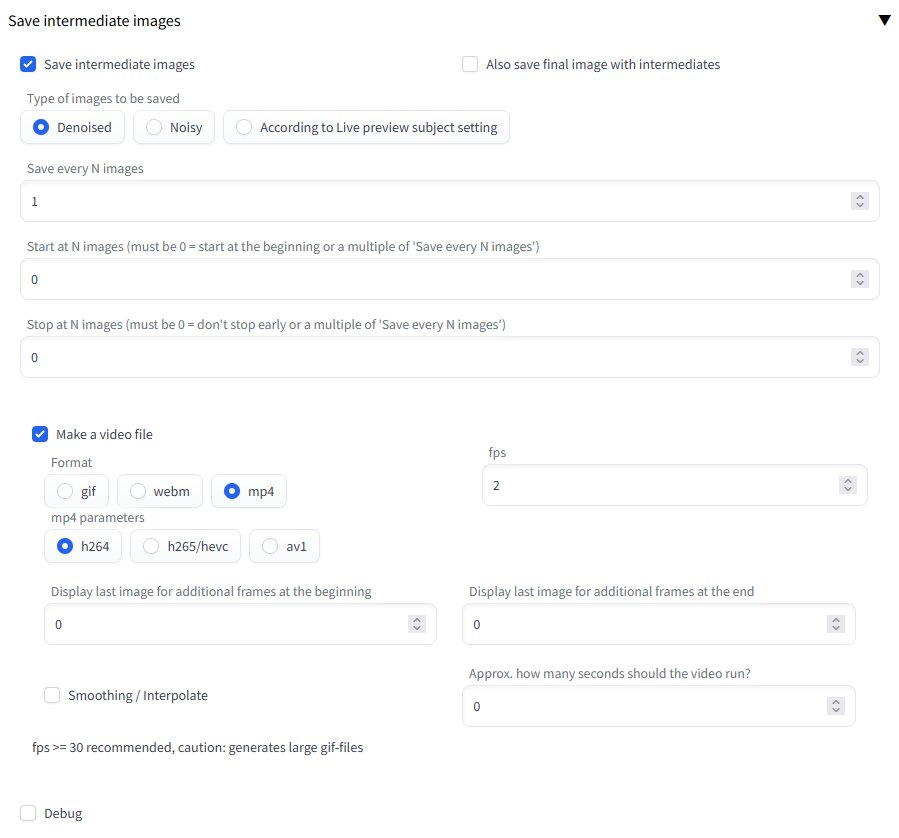
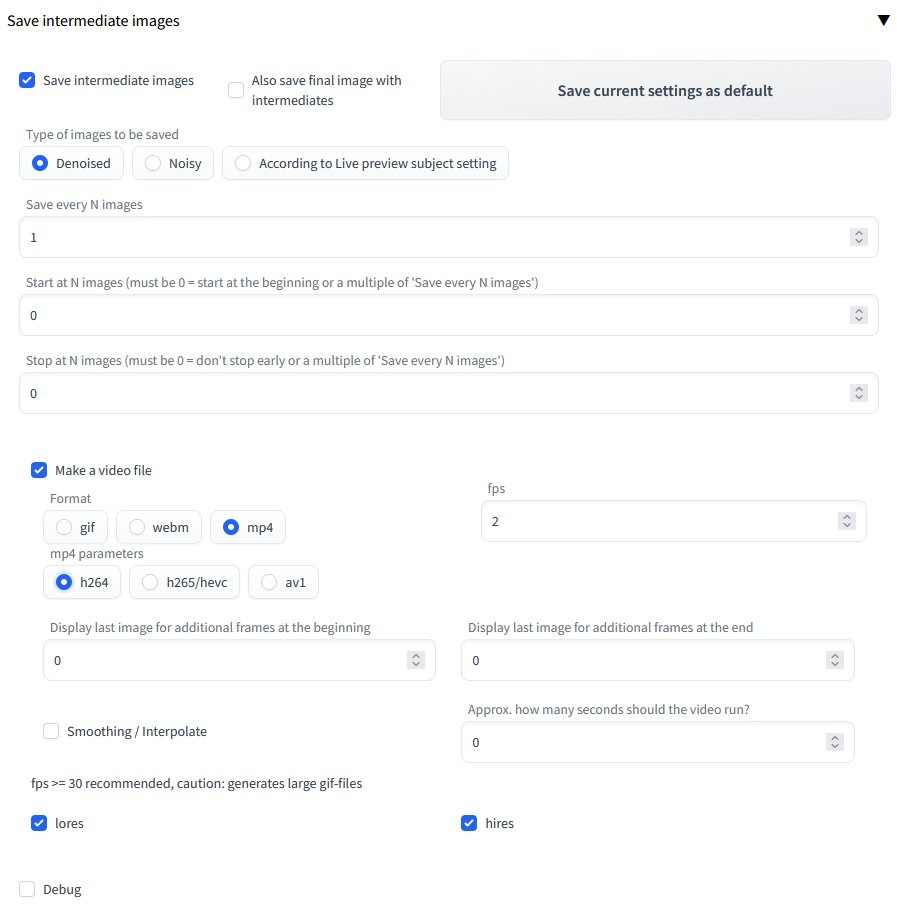
lores/hires options for make video, #18

diff --git a/scripts/sd_save_intermediate_images.py b/scripts/sd_save_intermediate_images.py
@@ -25,6 +25,7 @@ import gradio as gr; gr.__version__
 
 # New args, regex for npp, find: (ssii_video_hires)(?=,)
 # replace: \1, ssii_add_last_frames, ssii_add_first_frames
+# plus debug
 
 orig_callback_state = KDiffusionSampler.callback_state
 ui_config_backup = os.path.join(scripts.basedir(), "ui-config_backup.json")
@@ -44,6 +45,8 @@ ui_items = {
     "ssii_add_last_frames": "Display last image for additional frames at the end",
     "ssii_smooth": "Smoothing / Interpolate",
     "ssii_seconds": "Approx. how many seconds should the video run?",
+    "ssii_lores": "lores",
+    "ssii_hires": "hires",
     "ssii_debug": "Debug"
 }
 
@@ -53,7 +56,7 @@ def ui_setting_set(ui_settings, key, value):
     ui_settings[f"customscript/{this_module}/img2img/{key}/value"] = value
     return ui_settings
 
-def ssii_save_settings_do(ssii_is_active, ssii_final_save, ssii_intermediate_type, ssii_every_n, ssii_start_at_n, ssii_stop_at_n, ssii_video, ssii_video_format, ssii_mp4_parms, ssii_video_fps, ssii_add_first_frames, ssii_add_last_frames, ssii_smooth, ssii_seconds, ssii_debug):
+def ssii_save_settings_do(ssii_is_active, ssii_final_save, ssii_intermediate_type, ssii_every_n, ssii_start_at_n, ssii_stop_at_n, ssii_video, ssii_video_format, ssii_mp4_parms, ssii_video_fps, ssii_add_first_frames, ssii_add_last_frames, ssii_smooth, ssii_seconds, ssii_lores, ssii_hires, ssii_debug):
     ui_config_file = cmd_opts.ui_config_file
     ui_settings = {}
 
@@ -127,9 +130,21 @@ def ssii_add_last_frames_logic(p, ssii_add_first_frames, ssii_add_last_frames, s
         p.intermed_files = add_files
     return
 
-def make_video(p, ssii_is_active, ssii_final_save, ssii_intermediate_type, ssii_every_n, ssii_start_at_n, ssii_stop_at_n, ssii_video, ssii_video_format, ssii_mp4_parms, ssii_video_fps, ssii_add_first_frames, ssii_add_last_frames, ssii_smooth, ssii_seconds, ssii_debug):
+def make_video(p, ssii_is_active, ssii_final_save, ssii_intermediate_type, ssii_every_n, ssii_start_at_n, ssii_stop_at_n, ssii_video, ssii_video_format, ssii_mp4_parms, ssii_video_fps, ssii_add_first_frames, ssii_add_last_frames, ssii_smooth, ssii_seconds, ssii_lores, ssii_hires, ssii_debug):
     if ssii_is_active and ssii_video and ((not state.skipped and not state.interrupted) or p.intermed_stopped):
         logger = logging.getLogger(__name__)
+        # remove unwanted files according to lores/hires setting
+        if hr_check(p) and (not ssii_lores or not ssii_hires):
+            intermed_files_remain = []
+            for (batch_no, name_org, name_seq) in p.intermed_files:
+                filename = os.path.basename(name_org)
+                parts = filename.split("-")
+                current_step = parts[1]
+                if (ssii_lores and int(current_step) < int(p.intermed_hires_start)) or (ssii_hires and int(current_step) >= int(p.intermed_hires_start)):
+                     intermed_files_remain.append((batch_no, name_org, name_seq))
+                     logger.debug(f"Removed: {filename_clean(name_org)}")
+            p.intermed_files = intermed_files_remain
+
         # ffmpeg requires sequential numbers in filenames (that is exactly +1)
         p.intermed_files.sort(key=lambda x: x[0])
         prev_batch = None
@@ -321,6 +336,15 @@ class Script(scripts.Script):
                         )
                     with gr.Row():
                         gr.HTML("fps >= 30 recommended, caution: generates large gif-files")
+                with gr.Row():
+                    ssii_lores = gr.Checkbox(
+                        label=ui_items["ssii_lores"],
+                        value=True
+                    )
+                    ssii_hires = gr.Checkbox(
+                        label=ui_items["ssii_hires"],
+                        value=True
+                    )
             with gr.Row():
                 ssii_debug = gr.Checkbox(
                     label=ui_items["ssii_debug"],
@@ -331,11 +355,11 @@ class Script(scripts.Script):
 
         ssii_save_settings.click(
             fn=ssii_save_settings_do,
-            inputs=[ssii_is_active, ssii_final_save, ssii_intermediate_type, ssii_every_n, ssii_start_at_n, ssii_stop_at_n, ssii_video, ssii_video_format, ssii_mp4_parms, ssii_video_fps, ssii_add_first_frames, ssii_add_last_frames, ssii_smooth, ssii_seconds, ssii_debug],
+            inputs=[ssii_is_active, ssii_final_save, ssii_intermediate_type, ssii_every_n, ssii_start_at_n, ssii_stop_at_n, ssii_video, ssii_video_format, ssii_mp4_parms, ssii_video_fps, ssii_add_first_frames, ssii_add_last_frames, ssii_smooth, ssii_seconds, ssii_lores, ssii_hires, ssii_debug],
             outputs=[ssii_message],
         )
 
-        return [ssii_is_active, ssii_final_save, ssii_intermediate_type, ssii_every_n, ssii_start_at_n, ssii_stop_at_n, ssii_video, ssii_video_format, ssii_mp4_parms, ssii_video_fps, ssii_add_first_frames, ssii_add_last_frames, ssii_smooth, ssii_seconds, ssii_debug]
+        return [ssii_is_active, ssii_final_save, ssii_intermediate_type, ssii_every_n, ssii_start_at_n, ssii_stop_at_n, ssii_video, ssii_video_format, ssii_mp4_parms, ssii_video_fps, ssii_add_first_frames, ssii_add_last_frames, ssii_smooth, ssii_seconds, ssii_lores, ssii_hires, ssii_debug]
 
     def save_image_only_get_name(image, path, basename, seed=None, prompt=None, extension='png', info=None, short_filename=False, no_prompt=False, grid=False, pnginfo_section_name='parameters', p=None, existing_info=None, forced_filename=None, suffix="", save_to_dirs=None):
         # for description see modules.images.save_image, same code up saving of files
@@ -381,17 +405,19 @@ class Script(scripts.Script):
 
         return (fullfn)
 
-    def process(self, p, ssii_is_active, ssii_final_save, ssii_intermediate_type, ssii_every_n, ssii_start_at_n, ssii_stop_at_n, ssii_video, ssii_video_format, ssii_mp4_parms, ssii_video_fps, ssii_add_first_frames, ssii_add_last_frames, ssii_smooth, ssii_seconds, ssii_debug):
+    def process(self, p, ssii_is_active, ssii_final_save, ssii_intermediate_type, ssii_every_n, ssii_start_at_n, ssii_stop_at_n, ssii_video, ssii_video_format, ssii_mp4_parms, ssii_video_fps, ssii_add_first_frames, ssii_add_last_frames, ssii_smooth, ssii_seconds, ssii_lores, ssii_hires, ssii_debug):
         if ssii_is_active:
 
             # Debug logging
             if ssii_debug:
                 mode = logging.DEBUG
-                logging.basicConfig(level=mode, format='%(asctime)s %(levelname)s %(message)s')
             else:
                 mode = logging.WARNING
             logger = logging.getLogger(__name__)
             logger.setLevel(mode)
+            console_handler = logging.StreamHandler()
+            console_handler.setLevel(mode)
+            logger.addHandler(console_handler)
             if logger.isEnabledFor(logging.DEBUG):
                 logger.debug(f"{sys.executable} {sys.version}")
                 logger.debug(f"{platform.system()} {platform.version()}")
@@ -449,8 +475,9 @@ class Script(scripts.Script):
                             # Reset per-batch_count-attributes
                             delattr(p, "intermed_final_pass")
                             delattr(p, "intermed_max_step")
+                            delattr(p, "intermed_hires_start")
                             # Make video for previous batch_count
-                            make_video(p, ssii_is_active, ssii_final_save, ssii_intermediate_type, ssii_every_n, ssii_start_at_n, ssii_stop_at_n, ssii_video, ssii_video_format, ssii_mp4_parms, ssii_video_fps, ssii_add_first_frames, ssii_add_last_frames, ssii_smooth, ssii_seconds, ssii_debug)
+                            make_video(p, ssii_is_active, ssii_final_save, ssii_intermediate_type, ssii_every_n, ssii_start_at_n, ssii_stop_at_n, ssii_video, ssii_video_format, ssii_mp4_parms, ssii_video_fps, ssii_add_first_frames, ssii_add_last_frames, ssii_smooth, ssii_seconds, ssii_lores, ssii_hires, ssii_debug)
                     else:
                         p.intermed_batch_iter = p.iteration
 
@@ -460,9 +487,11 @@ class Script(scripts.Script):
                     hr_active = hr_active_check(p)
                     if hr_active:
                         abs_step = current_step + p.steps
+                        if not hasattr(p, 'intermed_hires_start'):
+                            p.intermed_hires_start = abs_step
 
-                logger.debug("ssii_intermediate_type, ssii_every_n, ssii_start_at_n, ssii_stop_at_n, ssii_video, ssii_video_format, ssii_mp4_parms, ssii_video_fps, ssii_add_first_frames, ssii_add_last_frames, ssii_smooth, ssii_seconds, ssii_debug:")
-                logger.debug(f"{ssii_intermediate_type}, {ssii_every_n}, {ssii_start_at_n}, {ssii_stop_at_n}, {ssii_video}, {ssii_video_format}, {ssii_video_fps}, {ssii_smooth}, {ssii_seconds}, {ssii_debug}")
+                logger.debug("ssii_intermediate_type, ssii_every_n, ssii_start_at_n, ssii_stop_at_n, ssii_video, ssii_video_format, ssii_mp4_parms, ssii_video_fps, ssii_add_first_frames, ssii_add_last_frames, ssii_smooth, ssii_seconds, ssii_lores, ssii_hires, ssii_debug:")
+                logger.debug(f"{ssii_intermediate_type}, {ssii_every_n}, {ssii_start_at_n}, {ssii_stop_at_n}, {ssii_video}, {ssii_video_format}, {ssii_mp4_parms}, {ssii_video_fps}, {ssii_add_first_frames}, {ssii_add_last_frames}, {ssii_smooth}, {ssii_seconds}, {ssii_lores}, {ssii_hires}, {ssii_debug}")
                 logger.debug(f"Step, abs_step, hr, hr_active: {current_step}, {abs_step}, {hr}, {hr_active}")
 
                 # ssii_start_at_n must be a multiple of ssii_every_n
@@ -584,11 +613,11 @@ class Script(scripts.Script):
 
             setattr(KDiffusionSampler, "callback_state", callback_state)
 
-    def postprocess(self, p, processed, ssii_is_active, ssii_final_save, ssii_intermediate_type, ssii_every_n, ssii_start_at_n, ssii_stop_at_n, ssii_video, ssii_video_format, ssii_mp4_parms, ssii_video_fps, ssii_add_first_frames, ssii_add_last_frames, ssii_smooth, ssii_seconds, ssii_debug):
+    def postprocess(self, p, processed, ssii_is_active, ssii_final_save, ssii_intermediate_type, ssii_every_n, ssii_start_at_n, ssii_stop_at_n, ssii_video, ssii_video_format, ssii_mp4_parms, ssii_video_fps, ssii_add_first_frames, ssii_add_last_frames, ssii_smooth, ssii_seconds, ssii_lores, ssii_hires, ssii_debug):
         setattr(KDiffusionSampler, "callback_state", orig_callback_state)
 
         # Make video for last batch_count
-        make_video(p, ssii_is_active, ssii_final_save, ssii_intermediate_type, ssii_every_n, ssii_start_at_n, ssii_stop_at_n, ssii_video, ssii_video_format, ssii_mp4_parms, ssii_video_fps, ssii_add_first_frames, ssii_add_last_frames, ssii_smooth, ssii_seconds, ssii_debug)
+        make_video(p, ssii_is_active, ssii_final_save, ssii_intermediate_type, ssii_every_n, ssii_start_at_n, ssii_stop_at_n, ssii_video, ssii_video_format, ssii_mp4_parms, ssii_video_fps, ssii_add_first_frames, ssii_add_last_frames, ssii_smooth, ssii_seconds, ssii_lores, ssii_hires, ssii_debug)
 
 def handle_image_saved(params : script_callbacks.ImageSaveParams):
     if hasattr(params.p, "intermed_is_active"):
